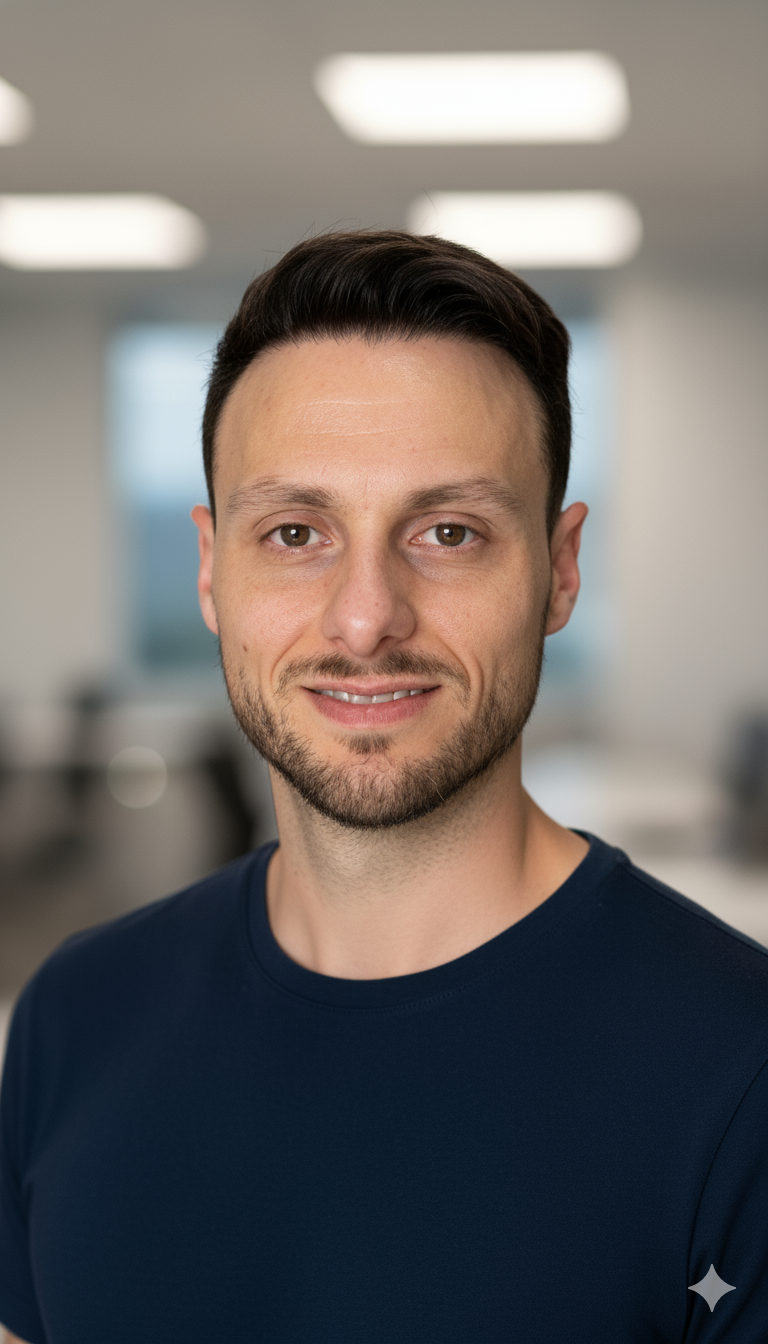
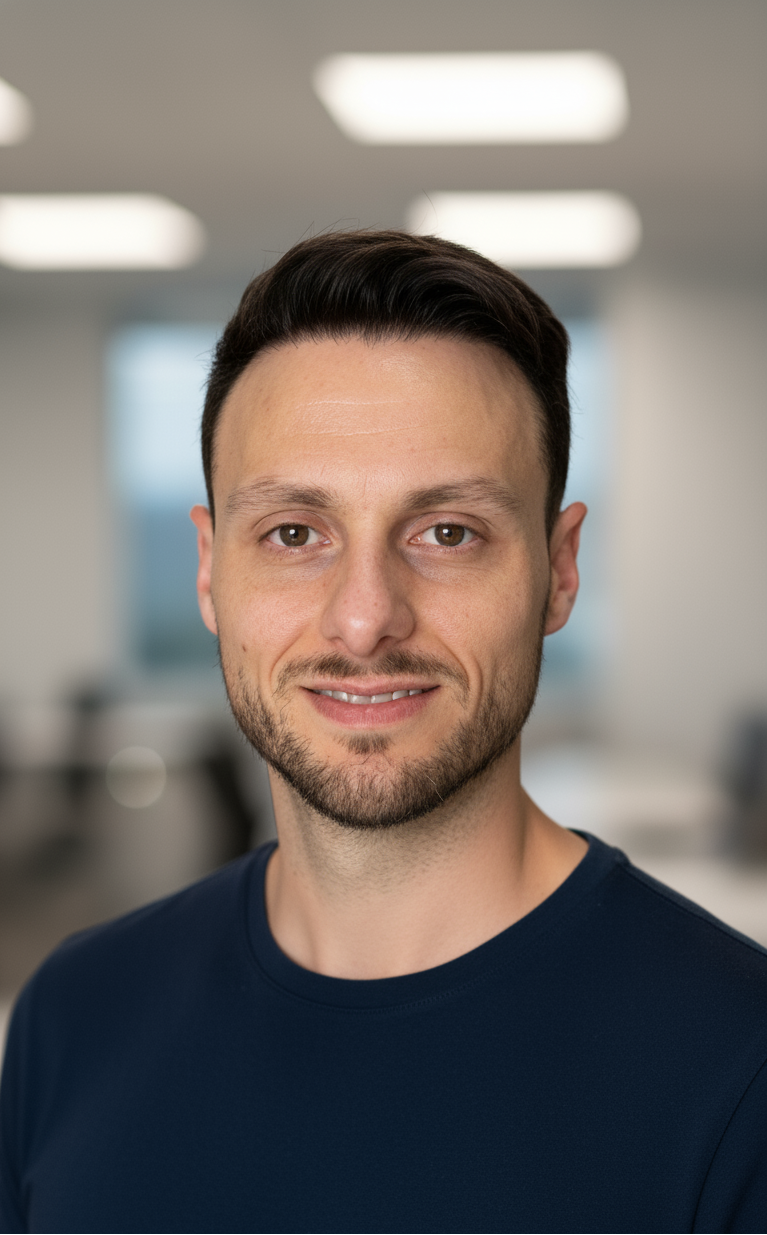
ajustes

diff --git a/estilos/style.css b/estilos/style.css
@@ -75,7 +75,7 @@ section#ficha{
 
 section#ficha img.foto{
   width: 200px;
-  aspect-ratio: 1/1;
+  aspect-ratio: 1/1; /* Proporção de 1 pra 1 - usar o object-fit junto para ajustar o achatamento */
   object-fit: cover;
   overflow: hidden;
   border-radius: 50%;
